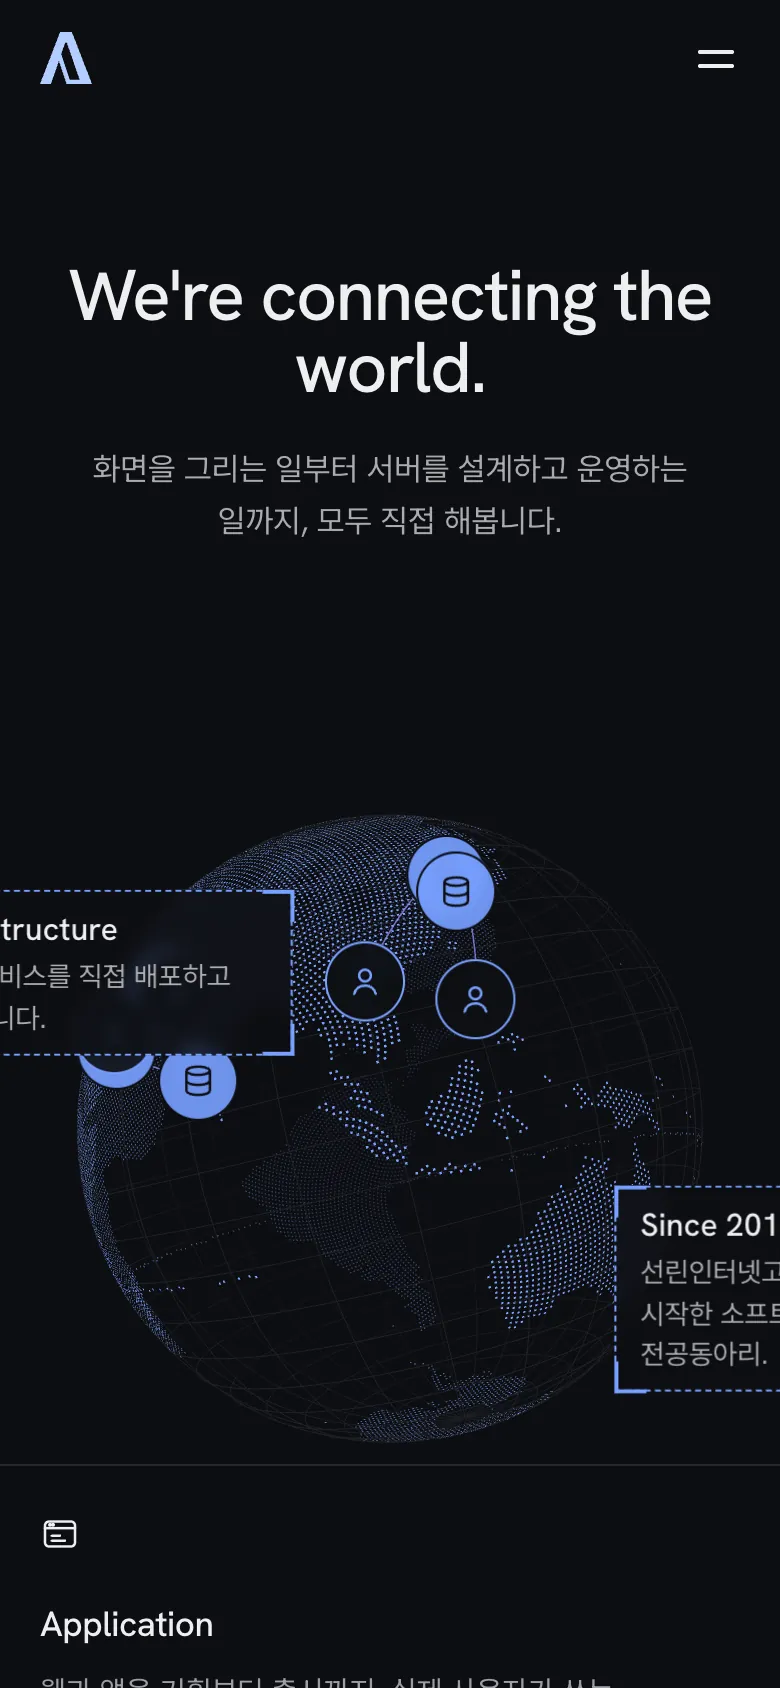
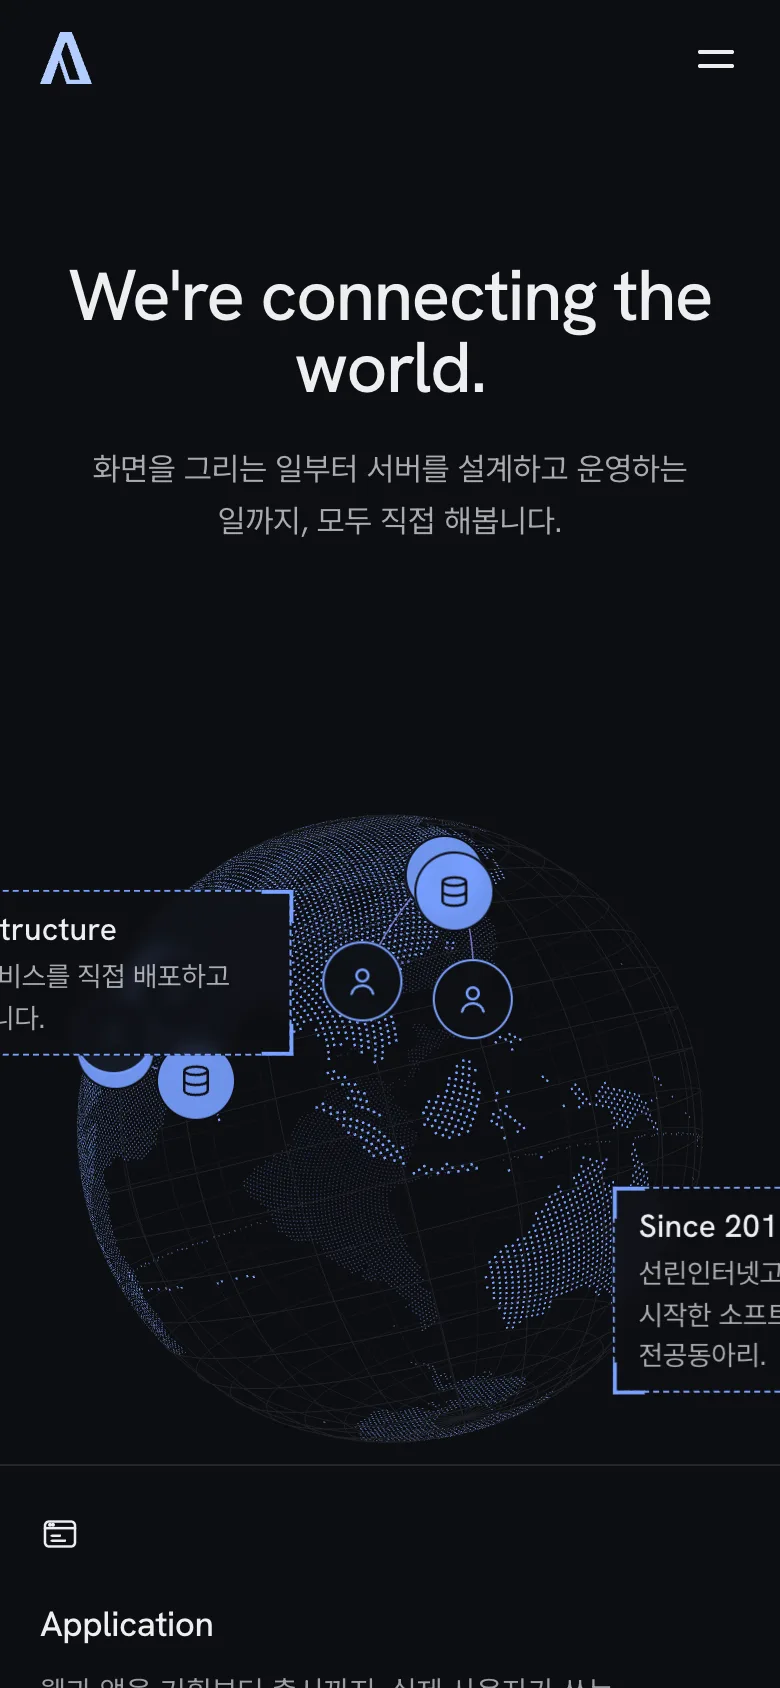
style: switch light-theme brand blue to #334882
Retune brand, hover, fill, accent and soft tokens to the #334882 family and re-capture the ana.st screenshots.

diff --git a/src/lib/styles/global.css b/src/lib/styles/global.css
@@ -4,21 +4,21 @@
 
 /* =========================================================
    Theme — light by default; dark follows prefers-color-scheme
-   (the browser / OS setting). AnA blue stays the exact hex in light.
+   (the browser / OS setting). AnA blue (#334882) stays the exact hex in light.
    ========================================================= */
 :root {
 	color-scheme: light;
 
 	/* brand (AnA default) */
-	--brand: #2f50e0;
-	--brand-2: #3d5ef0;
-	--brand-deep: #1b2c8f;
+	--brand: #334882;
+	--brand-2: #3d5592; /* hover */
+	--brand-deep: #24335e;
 	--brand-ink: #334882;
-	--brand-soft: #eef1fd;
-	--brand-line: #c9d3fa;
+	--brand-soft: #eef0f6;
+	--brand-line: #c9d0e2;
 	--brand-fill: var(--brand); /* large brand panels */
-	--brand-fill-2: #1f3cc0; /* gradient end of brand panels */
-	--accent-2: #4f6df5; /* secondary accent: waveform, toast, arcs */
+	--brand-fill-2: #2b3d70; /* gradient end of brand panels */
+	--accent-2: #334882; /* secondary accent: waveform, toast, arcs */
 	--on-brand: #ffffff;
 	--on-fill: #ffffff; /* text on large brand panels */
 	--logo-ink: var(--brand-ink); /* home halftone mark */

diff --git a/src/lib/RegionGlobe.svelte b/src/lib/RegionGlobe.svelte
@@ -152,7 +152,7 @@
 		/* ---------- arcs ---------- */
 		type Arc = { mesh: THREE.Mesh; a: number; b: number; s: number; e: number; on: boolean };
 		const arcs: Arc[] = [];
-		let arcTint = '#4f6df5';
+		let arcTint = '#334882';
 		const arcMat = () =>
 			new THREE.MeshBasicMaterial({ color: arcTint, transparent: true, opacity: 0, depthWrite: false });
 		const makeArc = (ai: number, bi: number) => {
